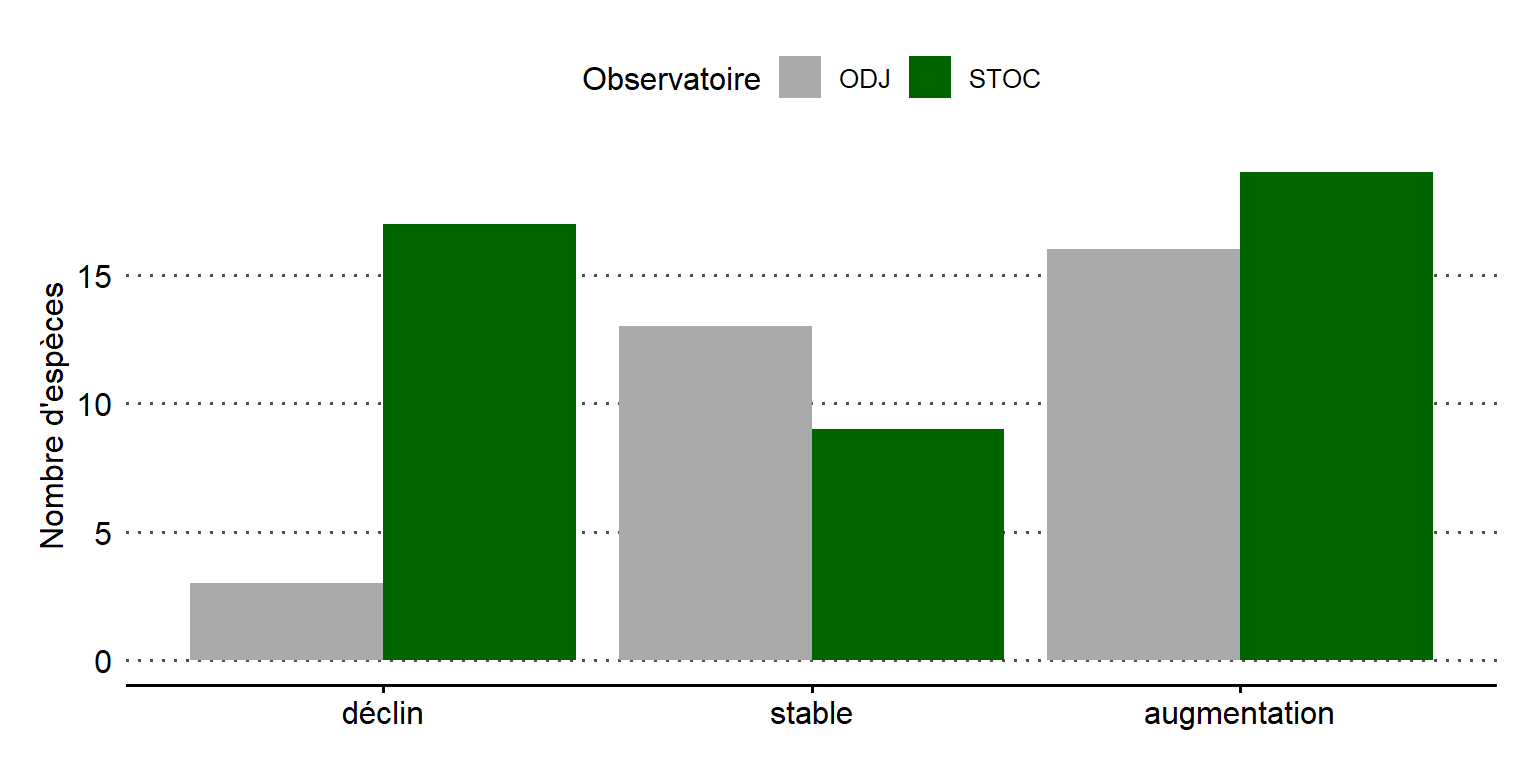
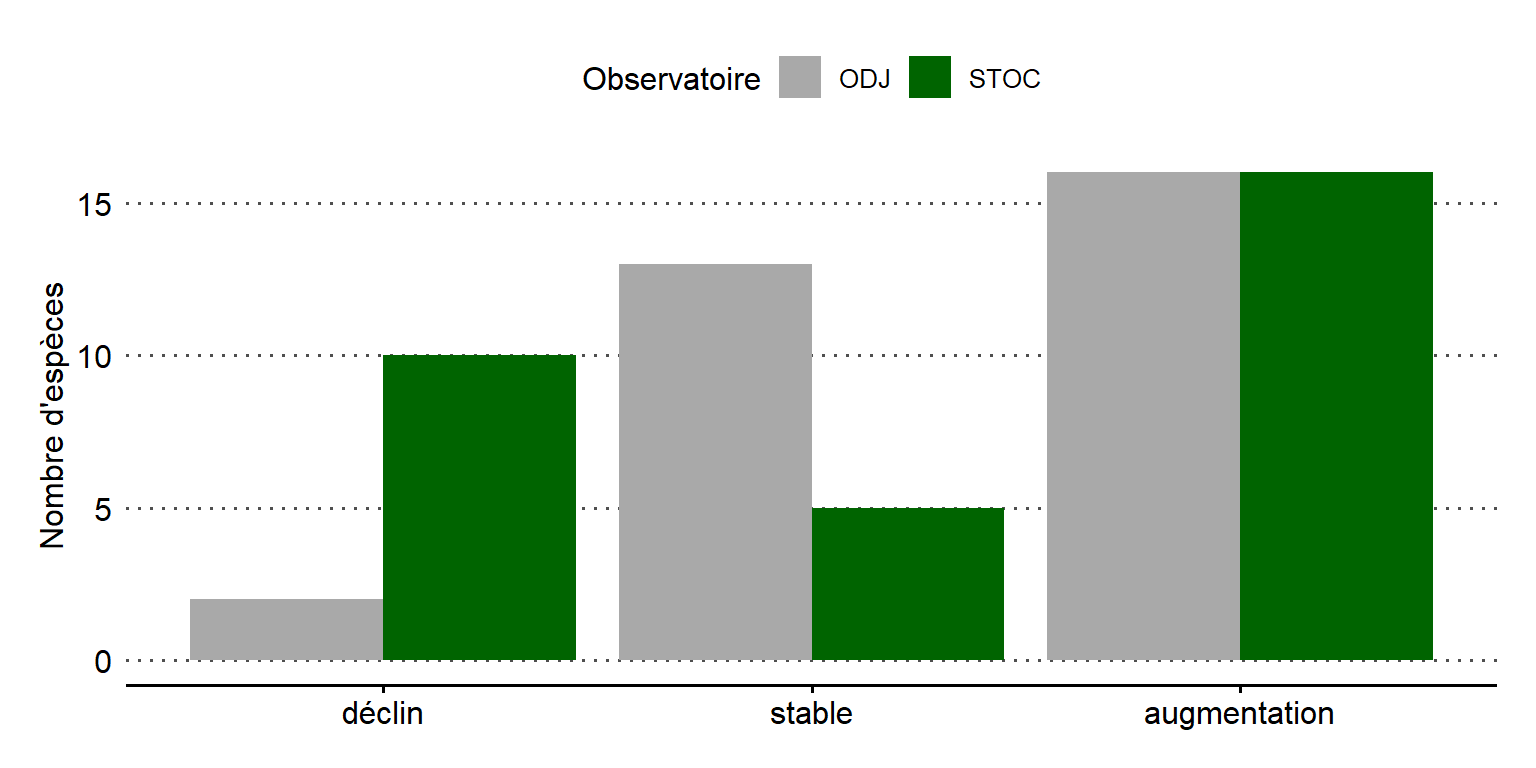
erreur données histogram vs donut

diff --git a/index.html b/index.html
@@ -93,7 +93,9 @@ ul.task-list li input[type="checkbox"] {
   <ul class="collapse">
   <li><a href="#odj-stoc-1" id="toc-odj-stoc-1" class="nav-link" data-scroll-target="#odj-stoc-1">ODJ-STOC</a></li>
   <li><a href="#odj-shoc-1" id="toc-odj-shoc-1" class="nav-link" data-scroll-target="#odj-shoc-1">ODJ-SHOC</a></li>
-  <li><a href="#nombre-despèces-en-déclinaugmentationstable" id="toc-nombre-despèces-en-déclinaugmentationstable" class="nav-link" data-scroll-target="#nombre-despèces-en-déclinaugmentationstable">Nombre d’espèces en déclin/augmentation/stable</a></li>
+  </ul></li>
+  <li><a href="#nombre-despèces-en-déclinaugmentationstable" id="toc-nombre-despèces-en-déclinaugmentationstable" class="nav-link" data-scroll-target="#nombre-despèces-en-déclinaugmentationstable">Nombre d’espèces en déclin/augmentation/stable</a>
+  <ul class="collapse">
   <li><a href="#odj" id="toc-odj" class="nav-link" data-scroll-target="#odj">ODJ</a></li>
   <li><a href="#odj-stoc-2" id="toc-odj-stoc-2" class="nav-link" data-scroll-target="#odj-stoc-2">ODJ-STOC</a></li>
   <li><a href="#odj-shoc-2" id="toc-odj-shoc-2" class="nav-link" data-scroll-target="#odj-shoc-2">ODJ-SHOC</a></li>
@@ -177,8 +179,8 @@ ul.task-list li input[type="checkbox"] {
 <p>Listes des espèces comparées :</p>
 <div class="cell">
 <div class="cell-output-display">
-<div class="datatables html-widget html-fill-item" id="htmlwidget-f02460a4bd55dff196cf" style="width:100%;height:auto;"></div>
-<script type="application/json" data-for="htmlwidget-f02460a4bd55dff196cf">{"x":{"filter":"none","vertical":false,"extensions":["Buttons"],"data":[["1","2","3","4","5","6","7","8","9","10","11","12","13","14","15","16","17","18","19","20","21","22","23","24","25","26","27","28","29","30","31"],["Étourneau sansonnet","Accenteur mouchet","Bergeronnette grise","Chardonneret élégant","Choucas des tours","Corneille noire","Fauvette à tête noire","Geai des chênes","Grimpereau des jardins","Grive musicienne","Grosbec casse-noyaux","Hirondelle rustique","Mésange à longue queue","Mésange bleue","Mésange charbonnière","Martinet noir","Merle noir","Moineau domestique","Moineau friquet","Pic épeiche","Pie bavarde","Pigeon biset domestique","Pigeon ramier","Pinson des arbres","Rougegorge familier","Rougequeue à front blanc","Rougequeue noir","Serin cini","Tourterelle turque","Troglodyte mignon","Verdier d'Europe"]],"container":"<table class=\"display\">\n  <thead>\n    <tr>\n      <th> <\/th>\n      <th>species<\/th>\n    <\/tr>\n  <\/thead>\n<\/table>","options":{"dom":"Blfrtip","buttons":["copy","csv","excel","pdf","print"],"lengthMenu":[[10,25,50,-1],["10","25","50","All"]],"columnDefs":[{"orderable":false,"targets":0},{"name":" ","targets":0},{"name":"species","targets":1}],"order":[],"autoWidth":false,"orderClasses":false}},"evals":[],"jsHooks":[]}</script>
+<div class="datatables html-widget html-fill-item" id="htmlwidget-98317aee6abd7e9abf96" style="width:100%;height:auto;"></div>
+<script type="application/json" data-for="htmlwidget-98317aee6abd7e9abf96">{"x":{"filter":"none","vertical":false,"extensions":["Buttons"],"data":[["1","2","3","4","5","6","7","8","9","10","11","12","13","14","15","16","17","18","19","20","21","22","23","24","25","26","27","28","29","30","31"],["Étourneau sansonnet","Accenteur mouchet","Bergeronnette grise","Chardonneret élégant","Choucas des tours","Corneille noire","Fauvette à tête noire","Geai des chênes","Grimpereau des jardins","Grive musicienne","Grosbec casse-noyaux","Hirondelle rustique","Mésange à longue queue","Mésange bleue","Mésange charbonnière","Martinet noir","Merle noir","Moineau domestique","Moineau friquet","Pic épeiche","Pie bavarde","Pigeon biset domestique","Pigeon ramier","Pinson des arbres","Rougegorge familier","Rougequeue à front blanc","Rougequeue noir","Serin cini","Tourterelle turque","Troglodyte mignon","Verdier d'Europe"]],"container":"<table class=\"display\">\n  <thead>\n    <tr>\n      <th> <\/th>\n      <th>species<\/th>\n    <\/tr>\n  <\/thead>\n<\/table>","options":{"dom":"Blfrtip","buttons":["copy","csv","excel","pdf","print"],"lengthMenu":[[10,25,50,-1],["10","25","50","All"]],"columnDefs":[{"orderable":false,"targets":0},{"name":" ","targets":0},{"name":"species","targets":1}],"order":[],"autoWidth":false,"orderClasses":false}},"evals":[],"jsHooks":[]}</script>
 </div>
 </div>
 </section>
@@ -188,8 +190,8 @@ ul.task-list li input[type="checkbox"] {
 <p>Listes des espèces comparées :</p>
 <div class="cell">
 <div class="cell-output-display">
-<div class="datatables html-widget html-fill-item" id="htmlwidget-e079e70b713db5123f09" style="width:100%;height:auto;"></div>
-<script type="application/json" data-for="htmlwidget-e079e70b713db5123f09">{"x":{"filter":"none","vertical":false,"extensions":["Buttons"],"data":[["1","2","3","4","5","6","7","8","9","10","11","12","13","14","15","16","17","18","19","20","21","22","23","24","25","26","27","28","29","30","31","32","33"],["Épervier d'Europe","Accenteur mouchet","Bergeronnette grise","Bouvreuil pivoine","Choucas des tours","Corneille noire","Geai des chênes","Grimpereau des jardins","Grive musicienne","Grosbec casse-noyaux","Mésange à longue queue","Mésange bleue","Mésange charbonnière","Mésange huppée","Mésange nonnette","Merle noir","Moineau domestique","Moineau friquet","Perruche à collier","Pic épeiche","Pic vert","Pie bavarde","Pigeon biset domestique","Pigeon ramier","Pinson des arbres","Pouillot véloce","Rougegorge familier","Rougequeue noir","Sittelle torchepot","Tarin des aulnes","Tourterelle turque","Troglodyte mignon","Verdier d'Europe"]],"container":"<table class=\"display\">\n  <thead>\n    <tr>\n      <th> <\/th>\n      <th>species<\/th>\n    <\/tr>\n  <\/thead>\n<\/table>","options":{"dom":"Blfrtip","buttons":["copy","csv","excel","pdf","print"],"lengthMenu":[[10,25,50,-1],["10","25","50","All"]],"columnDefs":[{"orderable":false,"targets":0},{"name":" ","targets":0},{"name":"species","targets":1}],"order":[],"autoWidth":false,"orderClasses":false}},"evals":[],"jsHooks":[]}</script>
+<div class="datatables html-widget html-fill-item" id="htmlwidget-10c1d5c044ce2ffa7edd" style="width:100%;height:auto;"></div>
+<script type="application/json" data-for="htmlwidget-10c1d5c044ce2ffa7edd">{"x":{"filter":"none","vertical":false,"extensions":["Buttons"],"data":[["1","2","3","4","5","6","7","8","9","10","11","12","13","14","15","16","17","18","19","20","21","22","23","24","25","26","27","28","29","30","31","32","33"],["Épervier d'Europe","Accenteur mouchet","Bergeronnette grise","Bouvreuil pivoine","Choucas des tours","Corneille noire","Geai des chênes","Grimpereau des jardins","Grive musicienne","Grosbec casse-noyaux","Mésange à longue queue","Mésange bleue","Mésange charbonnière","Mésange huppée","Mésange nonnette","Merle noir","Moineau domestique","Moineau friquet","Perruche à collier","Pic épeiche","Pic vert","Pie bavarde","Pigeon biset domestique","Pigeon ramier","Pinson des arbres","Pouillot véloce","Rougegorge familier","Rougequeue noir","Sittelle torchepot","Tarin des aulnes","Tourterelle turque","Troglodyte mignon","Verdier d'Europe"]],"container":"<table class=\"display\">\n  <thead>\n    <tr>\n      <th> <\/th>\n      <th>species<\/th>\n    <\/tr>\n  <\/thead>\n<\/table>","options":{"dom":"Blfrtip","buttons":["copy","csv","excel","pdf","print"],"lengthMenu":[[10,25,50,-1],["10","25","50","All"]],"columnDefs":[{"orderable":false,"targets":0},{"name":" ","targets":0},{"name":"species","targets":1}],"order":[],"autoWidth":false,"orderClasses":false}},"evals":[],"jsHooks":[]}</script>
 </div>
 </div>
 </section>
@@ -220,9 +222,9 @@ ul.task-list li input[type="checkbox"] {
 </div>
 </div>
 </section>
-<section id="nombre-despèces-en-déclinaugmentationstable" class="level3">
-<h3 class="anchored" data-anchor-id="nombre-despèces-en-déclinaugmentationstable">Nombre d’espèces en déclin/augmentation/stable</h3>
 </section>
+<section id="nombre-despèces-en-déclinaugmentationstable" class="level2">
+<h2 class="anchored" data-anchor-id="nombre-despèces-en-déclinaugmentationstable">Nombre d’espèces en déclin/augmentation/stable</h2>
 <section id="odj" class="level3">
 <h3 class="anchored" data-anchor-id="odj">ODJ</h3>
 <div class="cell">
@@ -237,6 +239,7 @@ ul.task-list li input[type="checkbox"] {
 </section>
 <section id="odj-stoc-2" class="level3">
 <h3 class="anchored" data-anchor-id="odj-stoc-2">ODJ-STOC</h3>
+<p>!!!!!!!!!!!!!!! verif jeu de données utilisé pour donut et historgram (pas même chiffres ???) !!!!</p>
 <div class="cell">
 <div class="cell-output-display">
 <div>
